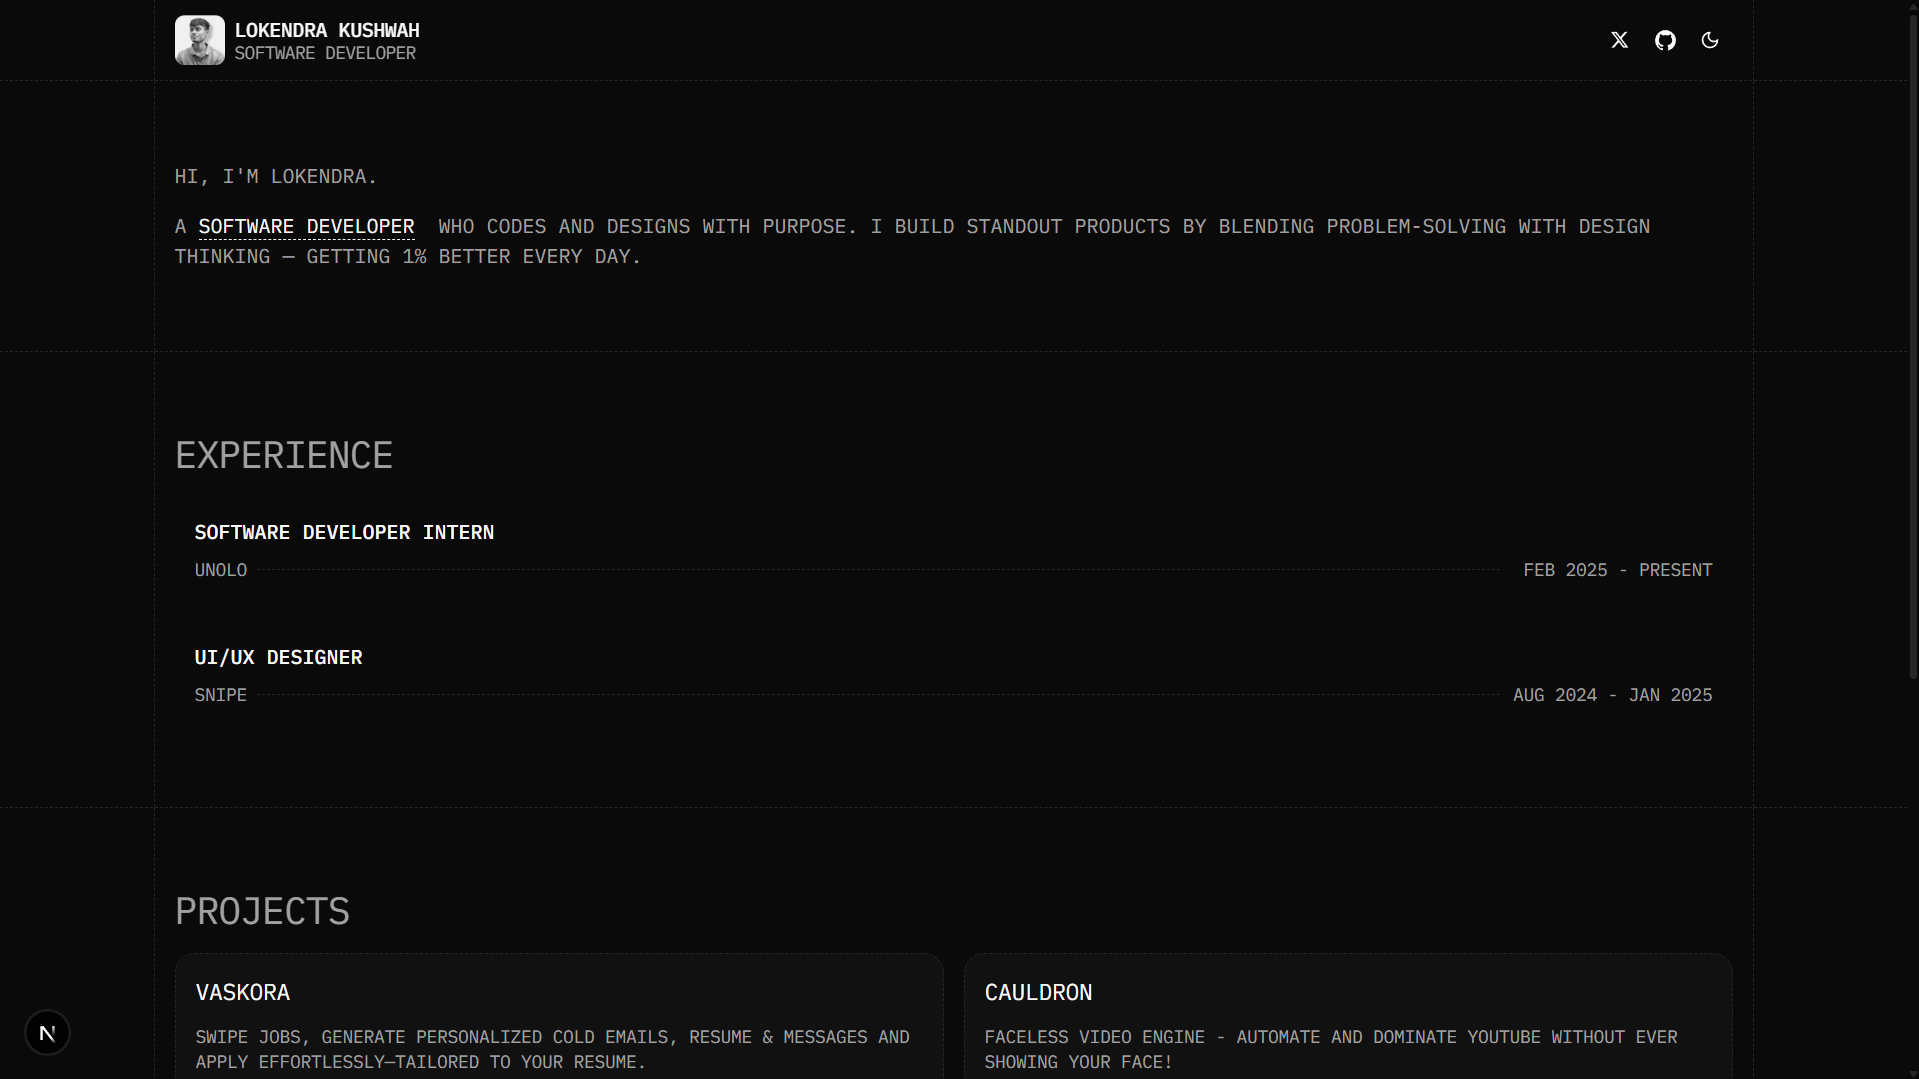
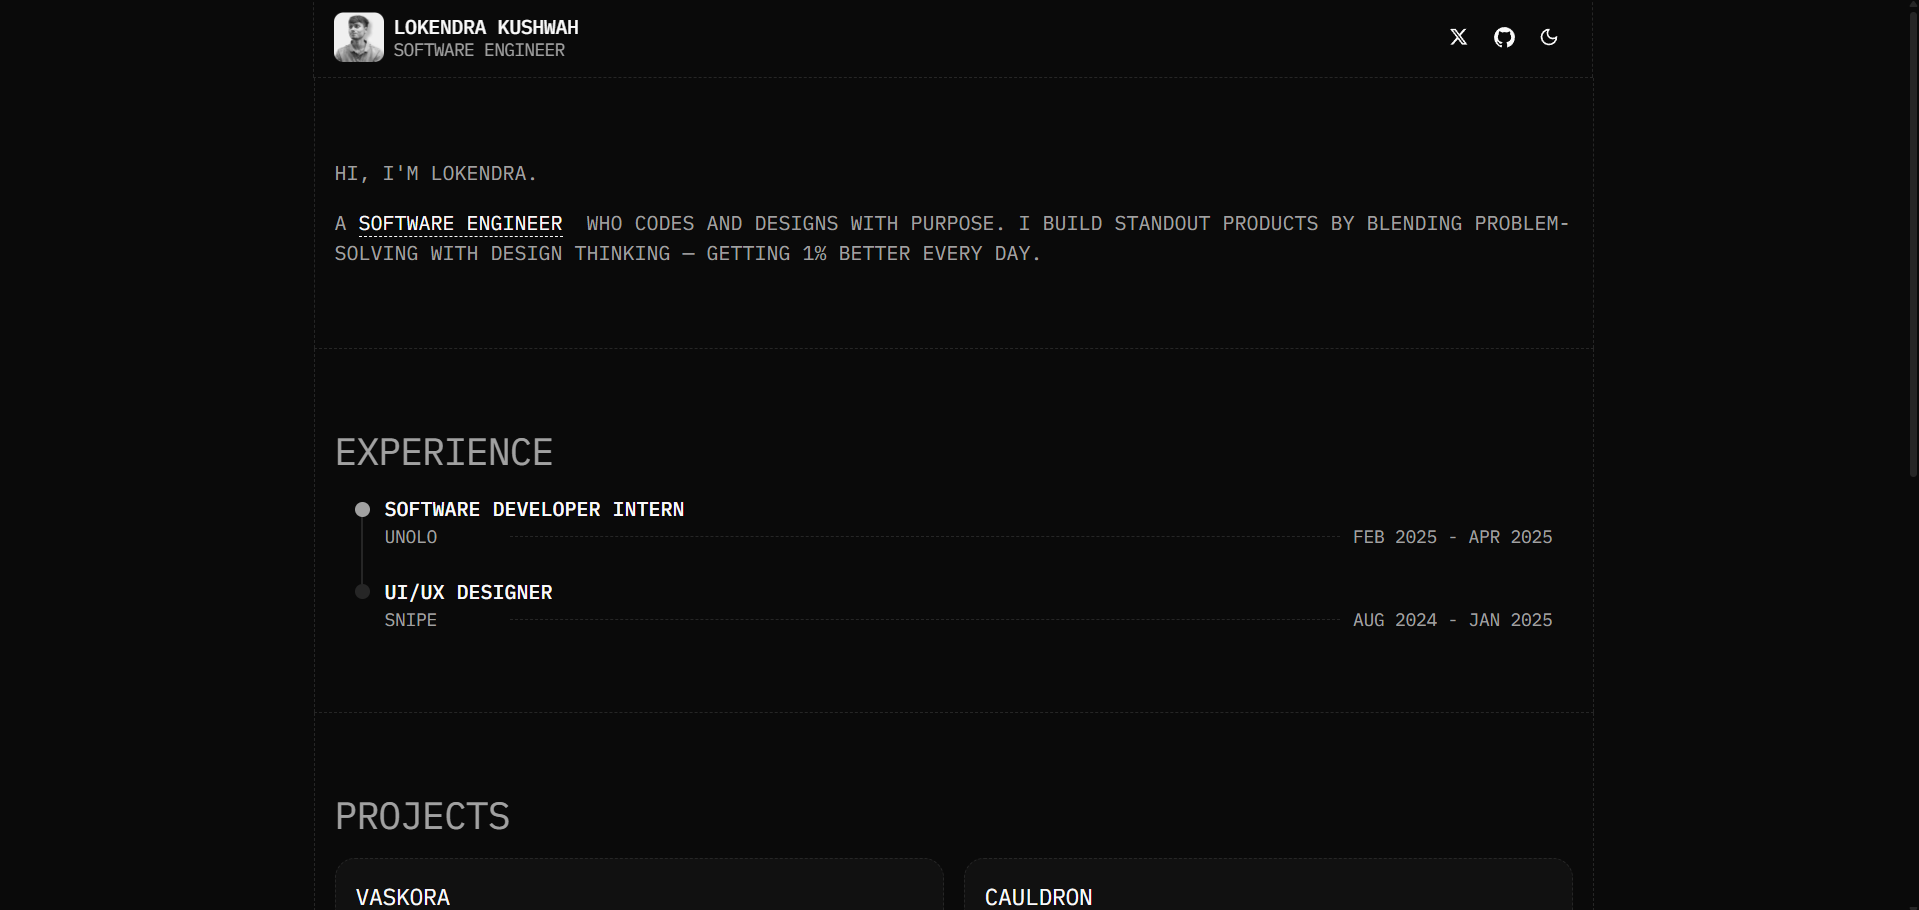
updated meta image

diff --git a/data/userData.ts b/data/userData.ts
@@ -48,16 +48,16 @@ const userData: UserData = {
   about:
     "Hi, I'm Lokendra. A software engineer who codes and designs with purpose. I build standout products by blending problem-solving with design thinking — getting 1% better every day.",
   experience: [
+    // {
+    //   id: 1,
+    //   role: "Frontend Engineer",
+    //   company: "Induced AI",
+    //   startDate: "Apr 2025",
+    //   endDate: "Present",
+    //   link: "https://www.induced.ai/",
+    // },
     {
       id: 1,
-      role: "Frontend Engineer",
-      company: "Induced AI",
-      startDate: "Apr 2025",
-      endDate: "Present",
-      link: "https://www.induced.ai/",
-    },
-    {
-      id: 2,
       role: "Software developer Intern",
       company: "Unolo",
       startDate: "Feb 2025",
